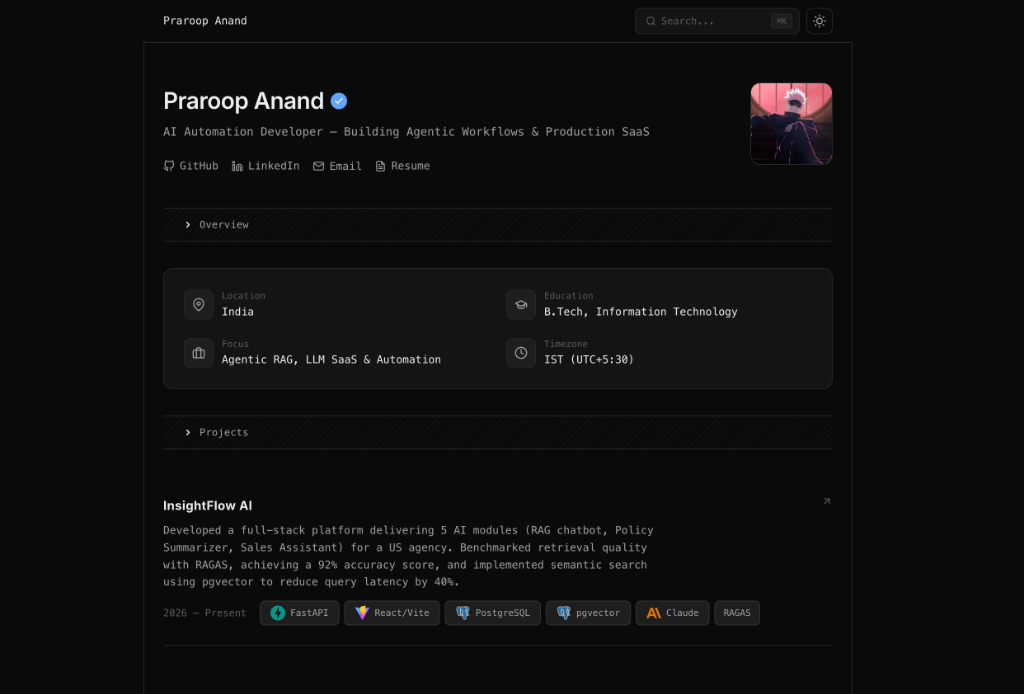
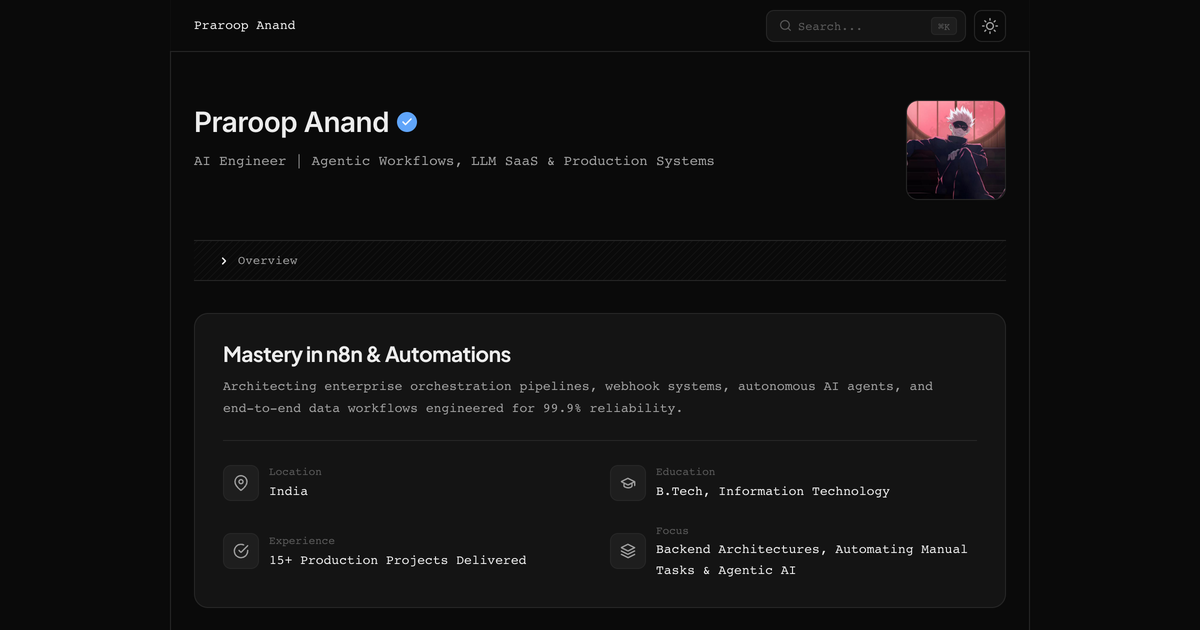
fix: standardize Open Graph and Twitter preview images to 1200x630 with updated metadata and robots.txt

diff --git a/src/app/layout.tsx b/src/app/layout.tsx
@@ -38,12 +38,30 @@ export const metadata: Metadata = {
     siteName: "Praroop Anand",
     locale: "en_US",
     type: "website",
+    images: [
+      {
+        url: "/og-image.png",
+        width: 1200,
+        height: 630,
+        alt: "Praroop Anand | AI Engineer Portfolio Preview",
+        type: "image/png",
+      },
+    ],
   },
   twitter: {
     card: "summary_large_image",
+    site: "@PraroopX",
+    creator: "@PraroopX",
     title: "Praroop Anand | AI Engineer",
     description: "Building Agentic Workflows & Production AI SaaS: RAG pipelines, LLM platforms, and automation systems.",
-    creator: "@PraroopX",
+    images: [
+      {
+        url: "/og-image.png",
+        width: 1200,
+        height: 630,
+        alt: "Praroop Anand | AI Engineer Portfolio Preview",
+      },
+    ],
   },
 };
 

diff --git a/src/app/robots.ts b/src/app/robots.ts
@@ -1,0 +1,24 @@
+import type { MetadataRoute } from "next";
+
+export default function robots(): MetadataRoute.Robots {
+  return {
+    rules: [
+      {
+        userAgent: "*",
+        allow: "/",
+      },
+      {
+        userAgent: "Twitterbot",
+        allow: "/",
+      },
+      {
+        userAgent: "facebookexternalhit",
+        allow: "/",
+      },
+      {
+        userAgent: "LinkedInBot",
+        allow: "/",
+      },
+    ],
+  };
+}
